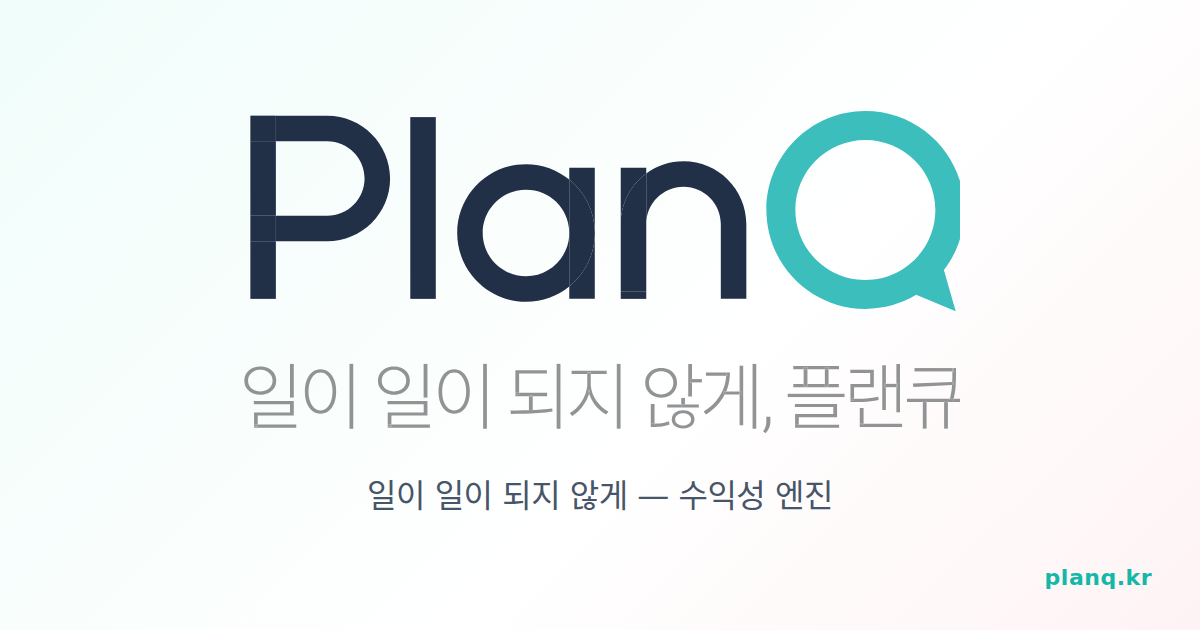
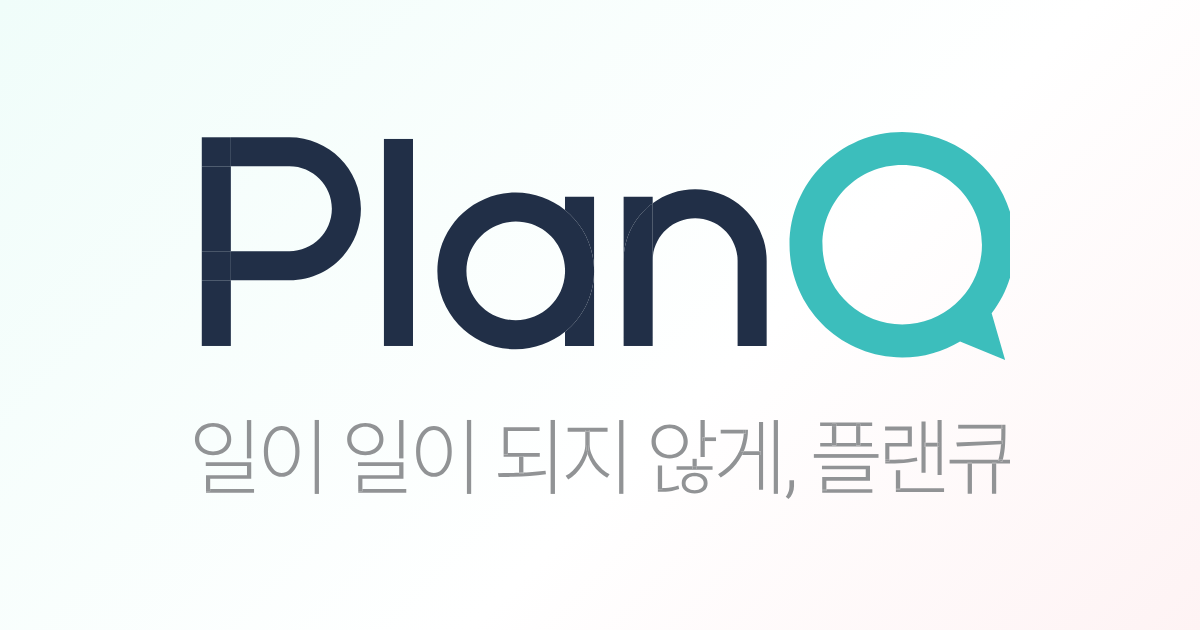
fix(feedback): 운영 피드백 4건 — 카톡 크래시·게스트 팝오버·OG·Q info
운영 feedback_items 미해결 처리 (#146/#126 은 Irene 액션 대기).

#189 카카오톡 인앱브라우저 랜딩 크래시 (고객 유입 차단, 최우선)
  카톡 인앱 UA(...KAKAOTALK)가 ogMeta SHARE_BOT_UA 에 봇으로 매칭 → 모든 /api 가
  JSON 아닌 OG HTML(text/html) 반환 → fetchWikiCategories 가 undefined → wikiCats.length
  크래시로 랜딩 전체 사망. 세션 관통 교훈(침묵 실패)과 정확히 일치.
  - 서버(근본): SHARE_BOT_UA 에서 bare KakaoTalk 제거(크롤러 Kakaotalk-scrap 만) +
    ogMetaMiddleware 가 /api·/socket.io·/qnote·/assets·/locales 스킵.
  - 프론트(심층방어): wiki.ts getJson 이 content-type 비-JSON 이면 throw +
    CueHelpDrawer setWikiCats 배열 가드.
  - dev nginx conf.d/planq-share-bot map 도 카톡 인앱 제외(운영은 / 가 정적 SPA 라 무관).
  검증: 카톡 인앱 /api→JSON · 크롤러 /→OG · puppeteer 카톡 UA 랜딩 크래시 0.
#188 랜딩 게스트 말풍선이 우측 전체 패널로 뜸 → FAB 위 팝오버(챗봇 위젯,
  400×480 우하단, 딤 없이). 워크스페이스는 기존 우측 드로어 유지.
#191 SNS OG 이미지에서 "일이 일이 되지 않게 — 수익성 엔진" 태그·하단 도메인 제거,
  로고(슬로건 포함)만 중앙정렬. og-default.png 재생성.
#187 Q info(KnowledgePage) — 상세 드로어에서 커스텀 항목 추가/이름변경/삭제 가능하게
  (항상 노출, updateKnowledge custom_columns PATCH). 리스트 overflow(CustomItem max-width·
  ColCustomArea overflow:hidden). InlineCellEdit 저장실패 삼킴 제거(에러 테두리 표시).

검증: 빌드 EXIT0/TS0 · health 33/33 · guard-invariants 21/21 · 실브라우저 4/4.
#190(안드로이드 앱) 답변 완료. 미배포 — 다음 /배포.

Changed region(s): [[0.1542, 0.1508, 0.8633, 0.8143], [0.8633, 0.9048, 0.9558, 0.9349]]

diff --git a/dev-frontend/src/pages/Knowledge/KnowledgePage.tsx b/dev-frontend/src/pages/Knowledge/KnowledgePage.tsx
@@ -965,32 +965,71 @@ const KnowledgePage: React.FC<KnowledgePageProps> = ({ embedded = false, mode = 
                 />
               </DrawerSection>
 
-              {/* 사용자 정의 항목 — 인라인 편집 */}
-              {Array.isArray(detail.custom_columns) && detail.custom_columns.length > 0 && (
-                <DrawerSection>
-                  <SectionLabel>{t('drawer.customColumns', '항목')}</SectionLabel>
-                  <DrawerCustomList>
-                    {detail.custom_columns.map(col => (
-                      <DrawerCustomRow key={col.id}>
-                        <DrawerCustomLabel>{col.name}</DrawerCustomLabel>
-                        <InlineCellEdit
-                          docId={detail.id}
-                          colId={col.id}
-                          colType={col.type}
-                          initialValue={(detail.custom_values || {})[col.id] as string | undefined}
-                          businessId={businessId}
-                          onSaved={(newVal) => {
-                            setDocs(prev => prev.map(x => x.id === detail.id
-                              ? { ...x, custom_values: { ...(x.custom_values || {}), [col.id]: newVal } }
-                              : x));
-                            setDetail(prev => prev ? { ...prev, custom_values: { ...(prev.custom_values || {}), [col.id]: newVal } } : prev);
-                          }}
-                        />
-                      </DrawerCustomRow>
-                    ))}
-                  </DrawerCustomList>
-                </DrawerSection>
-              )}
+              {/* 사용자 정의 항목 — #187: 수정에서도 항목 추가/이름변경/삭제 가능하게 (항상 노출). */}
+              {(() => {
+                const cols = Array.isArray(detail.custom_columns) ? detail.custom_columns : [];
+                // custom_columns 배열을 통째로 PATCH + 로컬 state 갱신 (단일 착지점)
+                const saveCols = async (nextCols: typeof cols, nextVals?: Record<string, unknown>) => {
+                  const payload: { custom_columns: typeof cols; custom_values?: Record<string, unknown> } = { custom_columns: nextCols };
+                  if (nextVals) payload.custom_values = nextVals;
+                  try { await updateKnowledge(businessId, detail.id, payload); }
+                  catch { return; }  // 실패 시 로컬 state 안 바꿈 (낙관 갱신 취소)
+                  setDocs(prev => prev.map(x => x.id === detail.id ? { ...x, custom_columns: nextCols, ...(nextVals ? { custom_values: nextVals } : {}) } : x));
+                  setDetail(prev => prev ? { ...prev, custom_columns: nextCols, ...(nextVals ? { custom_values: nextVals } : {}) } : prev);
+                };
+                return (
+                  <DrawerSection>
+                    <SectionLabel>{t('drawer.customColumns', '항목')}</SectionLabel>
+                    <DrawerCustomList>
+                      {cols.map((col, idx) => (
+                        <DrawerCustomRow key={col.id}>
+                          <DrawerColNameInput
+                            defaultValue={col.name}
+                            placeholder={t('modal.colNamePh', '항목명') as string}
+                            onBlur={(e) => {
+                              const name = e.target.value.trim();
+                              if (name === col.name) return;
+                              const next = cols.map((c, i) => i === idx ? { ...c, name } : c);
+                              saveCols(next);
+                            }}
+                          />
+                          <DrawerColValueRow>
+                            <InlineCellEdit
+                              docId={detail.id}
+                              colId={col.id}
+                              colType={col.type}
+                              initialValue={(detail.custom_values || {})[col.id] as string | undefined}
+                              businessId={businessId}
+                              onSaved={(newVal) => {
+                                setDocs(prev => prev.map(x => x.id === detail.id
+                                  ? { ...x, custom_values: { ...(x.custom_values || {}), [col.id]: newVal } } : x));
+                                setDetail(prev => prev ? { ...prev, custom_values: { ...(prev.custom_values || {}), [col.id]: newVal } } : prev);
+                              }}
+                            />
+                            <RemoveColBtn
+                              type="button"
+                              title={t('drawer.removeColumn', '항목 삭제') as string}
+                              onClick={() => {
+                                const next = cols.filter((_, i) => i !== idx);
+                                const vals = { ...(detail.custom_values || {}) };
+                                delete vals[col.id];
+                                saveCols(next, vals);
+                              }}
+                            >×</RemoveColBtn>
+                          </DrawerColValueRow>
+                        </DrawerCustomRow>
+                      ))}
+                      <AddColBtn
+                        type="button"
+                        onClick={() => {
+                          const id = `c${Math.random().toString(36).slice(2, 10)}`;
+                          saveCols([...cols, { id, name: t('drawer.newColumn', '새 항목'), type: 'text', show_in_list: true }]);
+                        }}
+                      >+ {t('modal.addColumn', '항목 추가')}</AddColBtn>
+                    </DrawerCustomList>
+                  </DrawerSection>
+                );
+              })()}
               {/* 첨부 파일·문서 — AttachmentField 통합 컴포넌트로 통일 (사이클 P5 후속, 2026-05-14).
                   새 정보 등록 모달과 같은 UI/UX. 새 업로드는 표준 File 테이블 등록 후 즉시
                   attached_file_ids 에 link. 기존 파일/문서 선택도 즉시 PATCH updateKnowledge. */}
@@ -1664,8 +1703,17 @@ const DrawerCustomRow = styled.div`
   padding: 6px 0; border-bottom: 1px solid #F1F5F9;
   &:last-child { border-bottom: none; }
 `;
-const DrawerCustomLabel = styled.span`
-  font-size: 12px; font-weight: 600; color: #64748B;
+// #187 — 상세 드로어에서 항목명 직접 편집 (blur 시 저장)
+const DrawerColNameInput = styled.input`
+  font-size: 12px; font-weight: 600; color: #334155;
+  border: 1px solid transparent; border-radius: 6px;
+  padding: 5px 8px; background: #F8FAFC; min-width: 0; width: 100%;
+  &:hover { border-color: #E2E8F0; }
+  &:focus { outline: none; border-color: #14B8A6; background: #fff; }
+`;
+const DrawerColValueRow = styled.div`
+  display: flex; align-items: center; gap: 6px; min-width: 0;
+  & > *:first-child { flex: 1; min-width: 0; }
 `;
 
 // ─── 인라인 셀 편집 — 리스트 행의 커스텀 항목 클릭 시 그 자리에서 수정 ───
@@ -1715,6 +1763,7 @@ const InlineCellEdit: React.FC<{
   const [editing, setEditing] = React.useState(false);
   const [draft, setDraft] = React.useState(initialValue == null ? '' : String(initialValue));
   const [saving, setSaving] = React.useState(false);
+  const [saveErr, setSaveErr] = React.useState(false);
 
   React.useEffect(() => { if (!editing) setDraft(initialValue == null ? '' : String(initialValue)); }, [initialValue, editing]);
 
@@ -1735,7 +1784,8 @@ const InlineCellEdit: React.FC<{
         custom_values: { [colId]: draft },
       });
       onSaved(draft);
-    } catch { /* skip — 다음 사이클에 에러 처리 */ }
+      setSaveErr(false);
+    } catch { setSaveErr(true); setEditing(true); }  // #187 — 저장 실패를 삼키지 말고 편집 유지 + 표시
     finally { setSaving(false); }
   };
 
@@ -1753,9 +1803,11 @@ const InlineCellEdit: React.FC<{
   return (
     <InlineInput
       autoFocus
+      $err={saveErr}
+      title={saveErr ? (t('inline.saveFailed', '저장 실패 — 다시 시도해주세요') as string) : undefined}
       type={colType === 'date' ? 'date' : colType === 'number' ? 'number' : colType === 'url' ? 'url' : colType === 'email' ? 'email' : 'text'}
       value={draft}
-      onChange={(e) => setDraft(e.target.value)}
+      onChange={(e) => { setDraft(e.target.value); if (saveErr) setSaveErr(false); }}
       onBlur={commit}
       onKeyDown={(e) => {
         if (e.key === 'Enter') (e.target as HTMLInputElement).blur();
@@ -1776,12 +1828,12 @@ const InlineValue = styled.span`
   transition: all 0.12s;
   &:hover { background: #F0FDFA; color: #0F766E; border-color: #CCFBF1; }
 `;
-const InlineInput = styled.input`
+const InlineInput = styled.input<{ $err?: boolean }>`
   height: 22px; padding: 0 6px;
-  border: 1px solid #14B8A6; border-radius: 4px;
+  border: 1px solid ${p => (p.$err ? '#EF4444' : '#14B8A6')}; border-radius: 4px;
   font-size: 12px; color: #0F172A; background: #fff;
   max-width: 200px;
-  &:focus { outline: none; box-shadow: 0 0 0 2px rgba(20,184,166,0.2); }
+  &:focus { outline: none; box-shadow: 0 0 0 2px ${p => (p.$err ? 'rgba(239,68,68,0.2)' : 'rgba(20,184,166,0.2)')}; }
 `;
 
 // ─── styled ───
@@ -1990,6 +2042,7 @@ const MainArea = styled.div`display: flex; flex-direction: column; gap: 10px; mi
 const CustomItem = styled.span`
   display: inline-flex; align-items: center; gap: 4px;
   white-space: nowrap; font-size: 12px;
+  min-width: 0; max-width: 260px;  /* #187 — 개별 항목 폭 제한 (라벨+값이 옆 컬럼 침범 방지) */
 `;
 const CustomLabel = styled.span`color: #94A3B8; font-weight: 500;`;
 const CustomValue = styled.span`color: #334155; font-weight: 500;
@@ -2040,7 +2093,7 @@ const ColTitleArea = styled.div`min-width: 0;`;
 const ColCustomArea = styled.div`
   display: flex; flex-wrap: wrap; gap: 12px 16px;
   align-items: center;
-  min-width: 0;
+  min-width: 0; overflow: hidden;  /* #187 — 넘친 커스텀 값이 옆 컬럼 위로 흐르지 않게 */
   @media (max-width: 900px) { grid-column: 1 / -1; }
 `;
 // 우측: 카테고리 chip(여러개 가능) + 메타 (스코프·날짜)

diff --git a/dev-frontend/src/components/Common/CueHelpDrawer.tsx b/dev-frontend/src/components/Common/CueHelpDrawer.tsx
@@ -197,7 +197,7 @@ const CueHelpDrawer: React.FC<{
   useEffect(() => {
     if (mode !== 'qhelper' || wikiCats.length) return;
     let cancelled = false;
-    fetchWikiCategories().then((c) => { if (!cancelled) setWikiCats(c); }).catch(() => {});
+    fetchWikiCategories().then((c) => { if (!cancelled) setWikiCats(Array.isArray(c) ? c : []); }).catch(() => {});
     return () => { cancelled = true; };
   }, [mode, wikiCats.length]);
 
@@ -485,8 +485,11 @@ const CueHelpDrawer: React.FC<{
         </FloatingTrigger>
       )}
       {open && <>
-      {!standalone && <Backdrop onClick={() => setOpen(false)} />}
-      <Drawer ref={drawerRef} $standalone={standalone} role="dialog" aria-label={t('qhelper.title', 'Q helper') as string}>
+      {/* 공개 표면(랜딩·위키)에선 우측 전체 드로어 대신 FAB 위 팝오버(챗봇 위젯 스타일).
+          배경 딤은 두지 않는다 — 랜딩을 가리지 않고 옆에 뜨는 느낌(#188). 바깥 클릭은 닫기. */}
+      {!standalone && !publicSurface && <Backdrop onClick={() => setOpen(false)} />}
+      {!standalone && publicSurface && <PopoverBackdrop onClick={() => setOpen(false)} />}
+      <Drawer ref={drawerRef} $standalone={standalone} $popover={!standalone && publicSurface} role="dialog" aria-label={t('qhelper.title', 'Q helper') as string}>
         <Header>
           <HeaderTitle>
             {/* N+93 — 타이틀은 탭과 무관하게 항상 'Q helper' 고정 (Irene). Sparkle 도 항상 민트. */}
@@ -879,24 +882,46 @@ const Backdrop = styled.div`
   background: rgba(15, 23, 42, 0.30);
   z-index: 1000;
 `;
-const Drawer = styled.div<{ $standalone?: boolean }>`
-  position: fixed; top: 0; right: 0; bottom: 0;
-  width: ${(p) => (p.$standalone ? '100vw' : '440px')};
-  ${(p) => p.$standalone && 'left: 0;'}
-  background: #FFFFFF;
-  border-left: ${(p) => (p.$standalone ? 'none' : '1px solid #E2E8F0')};
-  box-shadow: ${(p) => (p.$standalone ? 'none' : '-8px 0 32px rgba(15, 23, 42, 0.10)')};
+const Drawer = styled.div<{ $standalone?: boolean; $popover?: boolean }>`
+  position: fixed;
   z-index: 1001;
+  background: #FFFFFF;
   display: flex; flex-direction: column;
-  animation: ${(p) => (p.$standalone ? 'none' : 'cueSlideIn 0.2s ease-out')};
-  @keyframes cueSlideIn { from { transform: translateX(100%); } to { transform: translateX(0); } }
-  @media (max-width: 1024px) { width: ${(p) => (p.$standalone ? '100vw' : 'min(440px, 90vw)')}; }
-  @media (max-width: 640px) {
-    width: 100vw;
-    border-left: none;
-    box-shadow: none;
-    padding-bottom: env(safe-area-inset-bottom);
-  }
+  ${(p) => (p.$popover ? `
+    /* 공개 표면 — FAB(우하단 20/80px) 바로 위에 뜨는 챗봇 위젯 팝오버 (#188) */
+    right: 20px; bottom: 88px; top: auto; left: auto;
+    width: min(400px, calc(100vw - 40px));
+    height: min(620px, calc(100vh - 120px));
+    border: 1px solid #E2E8F0; border-radius: 16px;
+    box-shadow: 0 12px 48px rgba(15, 23, 42, 0.18);
+    overflow: hidden;
+    transform-origin: bottom right;
+    animation: cuePopIn 0.16s ease-out;
+    @keyframes cuePopIn { from { opacity: 0; transform: translateY(8px) scale(0.98); } to { opacity: 1; transform: translateY(0) scale(1); } }
+    @media (max-width: 640px) {
+      right: 0; bottom: 0; left: 0; top: auto;
+      width: 100vw; height: 88vh; border-radius: 16px 16px 0 0;
+      padding-bottom: env(safe-area-inset-bottom);
+    }
+  ` : `
+    /* 워크스페이스 — 우측 전체 드로어 */
+    top: 0; right: 0; bottom: 0;
+    width: ${p.$standalone ? '100vw' : '440px'};
+    ${p.$standalone ? 'left: 0;' : ''}
+    border-left: ${p.$standalone ? 'none' : '1px solid #E2E8F0'};
+    box-shadow: ${p.$standalone ? 'none' : '-8px 0 32px rgba(15, 23, 42, 0.10)'};
+    animation: ${p.$standalone ? 'none' : 'cueSlideIn 0.2s ease-out'};
+    @keyframes cueSlideIn { from { transform: translateX(100%); } to { transform: translateX(0); } }
+    @media (max-width: 1024px) { width: ${p.$standalone ? '100vw' : 'min(440px, 90vw)'}; }
+    @media (max-width: 640px) {
+      width: 100vw; border-left: none; box-shadow: none;
+      padding-bottom: env(safe-area-inset-bottom);
+    }
+  `)}
+`;
+// 팝오버 배경 — 딤 없이 투명. 바깥 클릭만 닫기(랜딩을 가리지 않는다, #188).
+const PopoverBackdrop = styled.div`
+  position: fixed; inset: 0; z-index: 1000; background: transparent;
 `;
 const Header = styled.div`
   flex-shrink: 0;

diff --git a/dev-backend/middleware/ogMeta.js b/dev-backend/middleware/ogMeta.js
@@ -15,7 +15,13 @@
 const path = require('path');
 const fs = require('fs');
 
-const SHARE_BOT_UA = /facebookexternalhit|Facebot|Twitterbot|LinkedInBot|Slackbot|SkypeUriPreview|TelegramBot|WhatsApp|KakaoTalk|Kakaotalk-scrap|Pinterest|Discordbot|Applebot|Embedly|Slack-ImgProxy|Mastodon|redditbot/i;
+// ★ 링크 미리보기 크롤러 UA만. 카카오톡은 크롤러가 'Kakaotalk-scrap' 이고, 인앱 브라우저는
+//   '...KAKAOTALK 10.x' 로 온다. bare 'KakaoTalk' 를 넣으면 인앱 브라우저(=실사용자)까지 봇으로
+//   잡혀 모든 API 가 OG HTML 을 받아 랜딩이 크래시했다(#189). 크롤러만 매칭한다.
+const SHARE_BOT_UA = /facebookexternalhit|Facebot|Twitterbot|LinkedInBot|Slackbot|SkypeUriPreview|TelegramBot|WhatsApp|Kakaotalk-scrap|Pinterest|Discordbot|Applebot|Embedly|Slack-ImgProxy|Mastodon|redditbot/i;
+
+// OG 메타는 HTML 문서 경로에만 의미가 있다. API·소켓·정적 자원은 봇이어도 스킵(HTML 주면 JS 가 깨진다).
+const OG_SKIP_PREFIX = /^\/(api|socket\.io|qnote|assets|locales)\b/;
 
 let cache = { settings: null, at: 0 };
 const TTL = 5 * 60 * 1000;
@@ -191,6 +197,8 @@ async function ogMetaMiddleware(req, res, next) {
   const url = req.originalUrl || req.url;
   // path 추출 (query string 제외)
   const pathOnly = url.split('?')[0];
+  // ★ API·소켓·정적 자원은 OG HTML 대상 아님 (#189 — 크롤러 판정돼도 여기엔 HTML 주면 안 됨).
+  if (OG_SKIP_PREFIX.test(pathOnly)) return next();
   const settings = await loadSettings();
 
   // 1) /public/posts/:token

diff --git a/dev-backend/scripts/generate-og-default.js b/dev-backend/scripts/generate-og-default.js
@@ -23,23 +23,11 @@ const HTML = `<!doctype html><html><head><meta charset="utf-8"><style>
     background: linear-gradient(135deg, #F0FDFA 0%, #FFFFFF 60%, #FEF3F4 100%);
     font-family: -apple-system, 'Pretendard', 'Apple SD Gothic Neo', system-ui, sans-serif;
   }
-  .logo { width: 720px; max-width: 80%; height: auto; }
+  /* #191 — 로고(슬로건 포함 SVG)만 중앙에. "수익성 엔진" 태그·하단 도메인 제거. */
+  .logo { width: 820px; max-width: 84%; height: auto; }
   .logo svg { width: 100%; height: auto; display: block; }
-  .tag {
-    margin-top: 40px;
-    font-size: 32px; font-weight: 500;
-    color: #475569; letter-spacing: -0.5px;
-    text-align: center; line-height: 1.4;
-  }
-  .domain {
-    position: absolute; bottom: 40px; right: 48px;
-    font-size: 22px; font-weight: 700; color: #14B8A6;
-    letter-spacing: 0.5px;
-  }
 </style></head><body>
   <div class="logo">${slogan}</div>
-  <div class="tag">일이 일이 되지 않게 — 수익성 엔진</div>
-  <div class="domain">planq.kr</div>
 </body></html>`;
 
 (async () => {

diff --git a/dev-frontend/src/services/wiki.ts b/dev-frontend/src/services/wiki.ts
@@ -44,6 +44,14 @@ export interface WikiArticleDetail extends WikiArticleSummary {
 
 async function getJson<T>(url: string): Promise<T> {
   const r = await apiFetch(url);
+  // ★ 비-JSON 200 방어(#189) — 카카오톡 인앱브라우저 등에서 API 가 OG HTML(text/html)을 받으면
+  //   json() 이 {} 로 파싱돼 j.data=undefined 가 조용히 흘러 호출부(.length)가 크래시했다.
+  const ct = r.headers.get('content-type') || '';
+  if (!ct.includes('application/json')) {
+    const err = new Error(`non-json response (${r.status})`);
+    (err as Error & { status?: number }).status = r.status;
+    throw err;
+  }
   const j = await r.json().catch(() => ({}));
   if (!r.ok || j?.success === false) {
     const err = new Error(j?.message || `request failed (${r.status})`);
